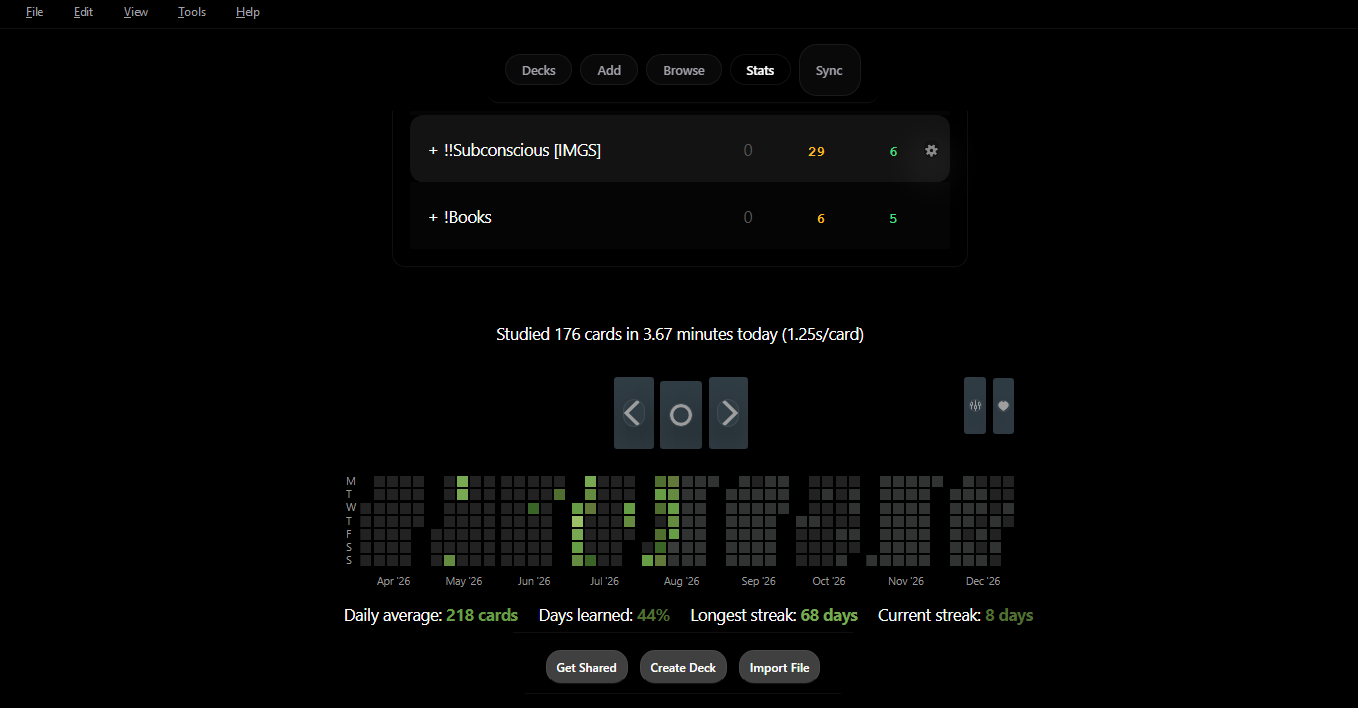
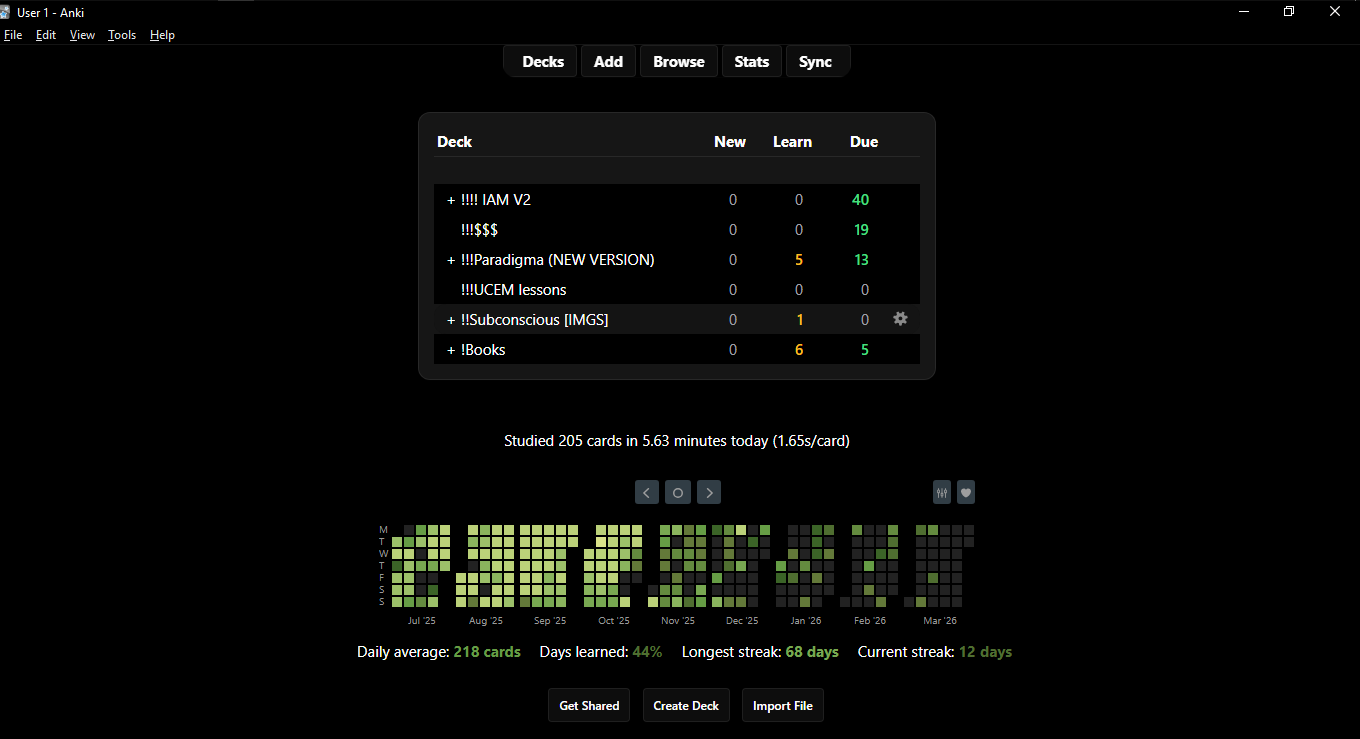
docs: integrate updated showcase screenshots and theme presets into README
- Map dedicated UI dialog screenshots for Discord Ingestion Settings and RGB Color Studio

- Add responsive 4-theme preset gallery (AMOLED Black, Sapphire Blue, Cosmic Purple, Arctic White)

- Embed Discord configuration visual directly into quick start guide

- Update Buy Me a Coffee support badge and direct link (buymeacoffee.com/wykiati)

- Maintain clean technical formatting with zero emojis

diff --git a/README.md b/README.md
@@ -65,16 +65,64 @@ The process of creating flashcards is traditionally one of the highest friction 
   <table>
     <tr>
       <td width="50%" align="center">
-        <img src="imgs/anki%20full%20black.png" alt="Discord Bot Settings and Image Ingestion" width="100%" style="border-radius: 8px; border: 1px solid rgba(255,255,255,0.1);" />
+        <a href="imgs/discord%20and%20image%20settings.png">
+          <img src="imgs/discord%20and%20image%20settings.png" alt="Discord Bot Settings and Image Ingestion" width="100%" style="border-radius: 8px; border: 1px solid rgba(255,255,255,0.1);" />
+        </a>
         <br/>
         <strong>Automated Discord Ingestion Interface</strong>
         <p><em>Configure bot tokens, target channels, deck routing targets, and visual card layout templates.</em></p>
       </td>
       <td width="50%" align="center">
-        <img src="imgs/anki%20full%20black.png" alt="RGB Studio and Dynamic WCAG Contrast Engine" width="100%" style="border-radius: 8px; border: 1px solid rgba(255,255,255,0.1);" />
+        <a href="imgs/rgb%20color%20background%20selector.png">
+          <img src="imgs/rgb%20color%20background%20selector.png" alt="RGB Studio and Dynamic WCAG Contrast Engine" width="100%" style="border-radius: 8px; border: 1px solid rgba(255,255,255,0.1);" />
+        </a>
         <br/>
         <strong>Interactive RGB Color Studio</strong>
         <p><em>Live color picker with adaptive WCAG luminance computation ensuring high readability across all UI elements.</em></p>
+      </td>
+    </tr>
+  </table>
+</div>
+
+<br/>
+
+<div align="center">
+  <h3>Theme Presets & Dynamic Palette Gallery</h3>
+  <table>
+    <tr>
+      <td width="50%" align="center">
+        <a href="imgs/anki%20full%20black.png">
+          <img src="imgs/anki%20full%20black.png" alt="AMOLED Void Black Theme" width="100%" style="border-radius: 8px; border: 1px solid rgba(255,255,255,0.1);" />
+        </a>
+        <br/>
+        <strong>AMOLED Void Black (#000000)</strong>
+        <p><em>True OLED black background with crisp white typography for zero eye fatigue and maximum power efficiency.</em></p>
+      </td>
+      <td width="50%" align="center">
+        <a href="imgs/blue%20background.png">
+          <img src="imgs/blue%20background.png" alt="Sapphire Blue Theme" width="100%" style="border-radius: 8px; border: 1px solid rgba(255,255,255,0.1);" />
+        </a>
+        <br/>
+        <strong>Sapphire Blue Theme</strong>
+        <p><em>Deep navy blue backdrop designed for high focus, coding sessions, and prolonged late-night study routines.</em></p>
+      </td>
+    </tr>
+    <tr>
+      <td width="50%" align="center">
+        <a href="imgs/purple%20backgroud.png">
+          <img src="imgs/purple%20backgroud.png" alt="Cosmic Purple Theme" width="100%" style="border-radius: 8px; border: 1px solid rgba(255,255,255,0.1);" />
+        </a>
+        <br/>
+        <strong>Cosmic Purple Theme</strong>
+        <p><em>Rich violet aesthetic providing a modern, vibrant ambiance with automatic luminance compensation.</em></p>
+      </td>
+      <td width="50%" align="center">
+        <a href="imgs/white%20background.png">
+          <img src="imgs/white%20background.png" alt="Arctic White Light Theme" width="100%" style="border-radius: 8px; border: 1px solid rgba(255,255,255,0.1);" />
+        </a>
+        <br/>
+        <strong>Arctic White Theme</strong>
+        <p><em>Clean high-luminance theme with automatic dark text and borders calculated via WCAG contrast standards.</em></p>
       </td>
     </tr>
   </table>
@@ -104,6 +152,13 @@ The process of creating flashcards is traditionally one of the highest friction 
 - **Pure Black Interface (#000000)**: Eliminates gray backdrops across Qt widgets, the Deck Browser, Card Reviewer, and Bottom Action Bars, minimizing OLED power consumption and reducing visual fatigue.
 - **Dynamic WCAG Contrast Engine**: Calculates the relative luminance ($L = 0.2126R + 0.7152G + 0.0722B$) of user-selected theme colors in real time. Text, borders, and selection indicators automatically adjust between light and dark tones to ensure maximum contrast and accessibility.
 - **Instant Hotkey Toggle**: Switch between custom styling and standard Anki presentation using `Ctrl+Shift+B`.
+
+<div align="center">
+  <a href="imgs/rgb%20color%20background%20selector.png">
+    <img src="imgs/rgb%20color%20background%20selector.png" alt="Dynamic RGB Studio and WCAG Contrast Engine" width="85%" style="border-radius: 10px; border: 1px solid rgba(255,255,255,0.15); box-shadow: 0 8px 24px rgba(0,0,0,0.7);" />
+  </a>
+  <p><em>Figure 2: Dynamic RGB Color Studio - Real-time color wheel, hex input, and automated contrast adaptation.</em></p>
+</div>
 
 ### 5. Embedded HTTP REST Webhook Bridge
 - **Local Integration Endpoint**: Runs a lightweight, non-blocking HTTP server on `http://127.0.0.1:8765`.
@@ -187,6 +242,13 @@ The project adheres to Clean Architecture and SOLID design principles. Network c
    - Select your target deck (e.g., `Medicine::Anatomy`).
    - Select your preferred layout mode (e.g., *Image on Front Only*).
 6. Click **Save Settings**. Click **Pull Recent Discord Images Now** to verify connectivity and immediately backfill past attachments.
+
+<div align="center">
+  <a href="imgs/discord%20and%20image%20settings.png">
+    <img src="imgs/discord%20and%20image%20settings.png" alt="Discord and Image Settings Dialog" width="85%" style="border-radius: 10px; border: 1px solid rgba(255,255,255,0.15); box-shadow: 0 8px 24px rgba(0,0,0,0.7);" />
+  </a>
+  <p><em>Figure 3: Discord & Image Settings - Seamless channel listening, target deck routing, and layout controls.</em></p>
+</div>
 
 ---
 
@@ -377,6 +439,9 @@ If the **Anki Wykiati Toolkit** accelerates your study workflow, improves your f
   <a href="https://buymeacoffee.com/wykiati" target="_blank">
     <img src="https://cdn.buymeacoffee.com/buttons/v2/default-yellow.png" alt="Buy Me A Coffee" width="220" style="border-radius: 8px; box-shadow: 0 4px 14px rgba(0,0,0,0.3);" />
   </a>
-  <br/>
+  <br/><br/>
+  <p>
+    <strong>Direct Link:</strong> <a href="https://buymeacoffee.com/wykiati" target="_blank">https://buymeacoffee.com/wykiati</a>
+  </p>
   <p><em>Direct contributions support the implementation of future features including Image Occlusion generation, offline OCR pipelines, and continuous maintenance on AnkiWeb.</em></p>
 </div>
